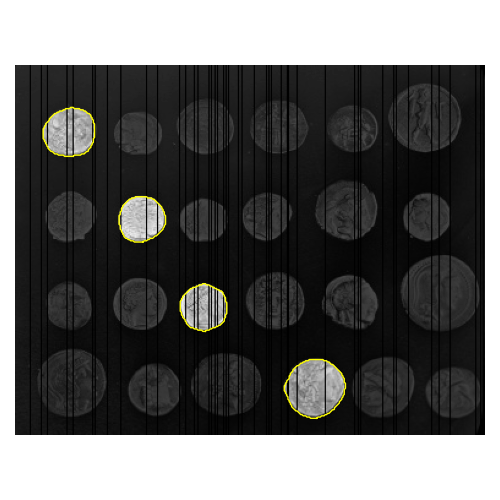
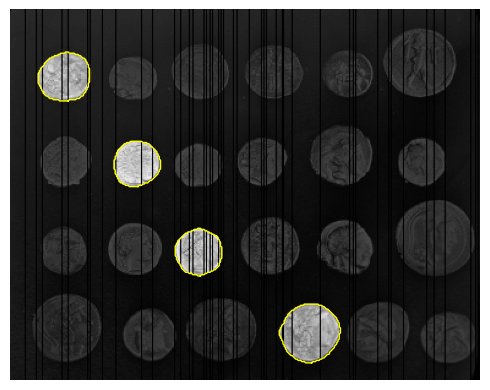
Better segmentation plots

diff --git a/scripts/ct_segmentation.py b/scripts/ct_segmentation.py
@@ -1,6 +1,8 @@
 """
 Script to segment the lungs in a CT image.
 
+We manually implemented all the steps of the segmentation process, using only numpy.
+
 Usage:
 python ./scripts/ct_segmentation.py --img ./data/CT.png --output_dir ./figures
 """
@@ -83,11 +85,11 @@ axes[3].text(0, 1.05, '(d)', fontsize=25, transform=axes[3].transAxes, fontweigh
 for ax in axes:
     ax.axis('off')
 
-fig.savefig(join(args.output_dir, 'CT_steps.png'))
+fig.savefig(join(args.output_dir, 'CT_steps.png'), dpi=300, bbox_inches='tight')
 
 # Plot the original image and the segmentation mask overlay
 fig, ax = plt.subplots(1, 1, figsize=(10, 10))
 plot_image_mask_overlay(image, mask, ax, dim_factor=0.3, cmap='gray', border_color='yellow')
 ax.axis('off')
 
-fig.savefig(join(args.output_dir, 'CT_segmentation.png'))
+fig.savefig(join(args.output_dir, 'CT_segmentation.png'), dpi=300, bbox_inches='tight')

diff --git a/scripts/coins_segmentation.py b/scripts/coins_segmentation.py
@@ -68,7 +68,7 @@ for ax in axes:
     ax.axis('off')
 
 plt.tight_layout()
-fig.savefig(join(args.output_dir, 'coins_steps.png'))
+fig.savefig(join(args.output_dir, 'coins_steps.png'), bbox_inches='tight')
 
 # Assume grid is 4x6
 # Find the grid position of each coin
@@ -103,4 +103,4 @@ plot_image_mask_overlay(orig_image, mask, ax, dim_factor=0.3, cmap='gray', borde
 ax.axis('off')
 
 plt.tight_layout()
-fig.savefig(join(args.output_dir, 'coins_segmentation.png'))
+fig.savefig(join(args.output_dir, 'coins_segmentation.png'), bbox_inches='tight')

diff --git a/scripts/flower_segmentation.py b/scripts/flower_segmentation.py
@@ -104,7 +104,7 @@ selem = morphology.disk(2)
 cf_mask = morphology.binary_opening(cf_mask, selem)
 
 plt.tight_layout()
-fig.savefig(join(args.output_dir, 'flower_steps.png'))
+fig.savefig(join(args.output_dir, 'flower_steps.png'), dpi=300, bbox_inches='tight')
 
 fig, axes = plt.subplots(1, 2, figsize=(10, 5))
 
@@ -120,4 +120,4 @@ for ax in axes:
     ax.axis('off')
 
 plt.tight_layout()
-fig.savefig(join(args.output_dir, 'flower_segmentation.png'))
+fig.savefig(join(args.output_dir, 'flower_segmentation.png'), dpi=300, bbox_inches='tight')
